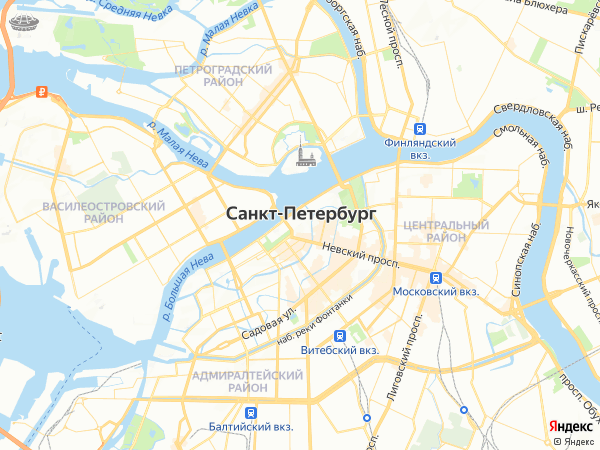
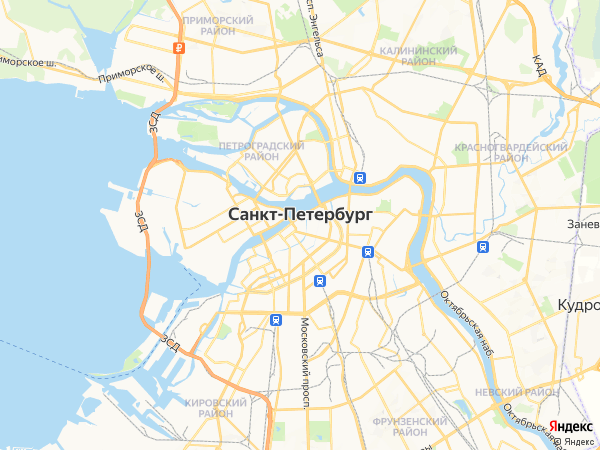
фокус на mainwindow

diff --git a/main.py b/main.py
@@ -2,8 +2,10 @@ import sys, requests
 from io import BytesIO
 from PIL import Image
 from PyQt5 import uic
+from PyQt5.QtCore import QDateTime, Qt
 from PyQt5.QtGui import QPixmap
-from PyQt5.QtWidgets import QApplication, QMainWindow, QSlider
+from PyQt5.QtWidgets import QApplication, QMainWindow, QSlider, QDialog, QVBoxLayout, QDateTimeEdit, QDialogButtonBox, \
+    QTextEdit, QLineEdit, QLabel
 import yandex_map_helper 
 
 
@@ -14,21 +16,26 @@ class MyWidget(QMainWindow):
 
     def initUI(self):
         uic.loadUi('interface.ui', self)
-
-        self.verticalSlider.setTickInterval(17)
-        self.verticalSlider.setMinimum(0)
-        self.verticalSlider.setMaximum(17)
-        self.verticalSlider.setSingleStep(1)
-        self.verticalSlider.setTickPosition(QSlider.TicksBelow)
-
-        self.verticalSlider.setValue(12)
-        
-        self.pushButton.clicked.connect(self.get_map)
-        #self.coordinates.textChanged.connect(self.get_map)
+        self.zoom = 12
+        self.last_coords = '30.315635 59.938951'
+        self.zoomButton.clicked.connect(self.get_zoom)
+        self.coordsButton.clicked.connect(self.get_coords)
         self.get_map()
+
+    def get_zoom(self):
+        zoom, ok = ZoomDialog.get_zoom(self.zoom)
+        self.zoom = zoom
+        self.get_map()
+
+    def get_coords(self):
+        coords, ok = CoordsDialog.get_coordinates(self.last_coords)
+        if ok:
+            self.coordinates.setText(coords)
+            self.get_map()
 
     def get_map(self):
         #print(self.verticalSlider.value())
+
         try:
             toponym_longitude, toponym_lattitude = self.coordinates.text().split(" ")
         except:
@@ -36,7 +43,7 @@ class MyWidget(QMainWindow):
             toponym_longitude, toponym_lattitude = self.last_coords
             self.errorlabel.setText('Координаты должны быть разделены пробелом')
             
-        map_params = yandex_map_helper.set_map_params(toponym_longitude, toponym_lattitude, self.verticalSlider.value())
+        map_params = yandex_map_helper.set_map_params(toponym_longitude, toponym_lattitude, self.zoom)
         map_api_server = "http://static-maps.yandex.ru/1.x/"
         response = requests.get(map_api_server, params=map_params)
         
@@ -50,8 +57,68 @@ class MyWidget(QMainWindow):
         except:
             self.coordinates.setText(" ".join(self.last_coords))
             self.errorlabel.setText('Какие-то стремные координаты')
-            
-            
+
+    def keyPressEvent(self, e):
+        if e.key() == Qt.Key_Up:
+            print("up")
+        elif e.key() == Qt.Key_Down:
+            print("down")
+        elif e.key() == Qt.Key_Left:
+            print("left")
+        elif e.key() == Qt.Key_Right:
+            print("right")
+
+class CoordsDialog(QDialog):
+    def __init__(self, last_coords, parent=None):
+        super(CoordsDialog, self).__init__(parent)
+
+        layout = QVBoxLayout(self)
+        # nice widget for editing the date
+        self.coords_field = QLineEdit(self)
+        self.coords_field.setText(" ".join(last_coords))
+        layout.addWidget(self.coords_field)
+
+        # OK and Cancel buttons
+        buttons = QDialogButtonBox(
+            QDialogButtonBox.Ok | QDialogButtonBox.Cancel,
+            Qt.Horizontal, self)
+        buttons.accepted.connect(self.accept)
+        buttons.rejected.connect(self.reject)
+        layout.addWidget(buttons)
+
+    @staticmethod
+    def get_coordinates(last_coords, parent=None):
+        dialog = CoordsDialog(last_coords=last_coords, parent=parent)
+        result = dialog.exec_()
+        coords = dialog.coords_field.text()
+        return (coords, result == QDialog.Accepted)
+
+
+class ZoomDialog(QDialog):
+    def __init__(self, last_zoom, parent=None):
+        super(ZoomDialog, self).__init__(parent)
+
+        layout = QVBoxLayout(self)
+        # nice widget for editing the date
+        self.zoom_field = QLineEdit(self)
+        self.zoom_field.setText(str(last_zoom))
+        layout.addWidget(self.zoom_field)
+
+        # OK and Cancel buttons
+        buttons = QDialogButtonBox(
+            QDialogButtonBox.Ok | QDialogButtonBox.Cancel,
+            Qt.Horizontal, self)
+        buttons.accepted.connect(self.accept)
+        buttons.rejected.connect(self.reject)
+        layout.addWidget(buttons)
+
+    @staticmethod
+    def get_zoom(last_zoom, parent=None):
+        dialog = ZoomDialog(last_zoom=last_zoom, parent=parent)
+        result = dialog.exec_()
+        zoom = dialog.zoom_field.text()
+        return (zoom, QDialog.Accepted)
+
 
 if __name__ == '__main__':
     app = QApplication(sys.argv)
